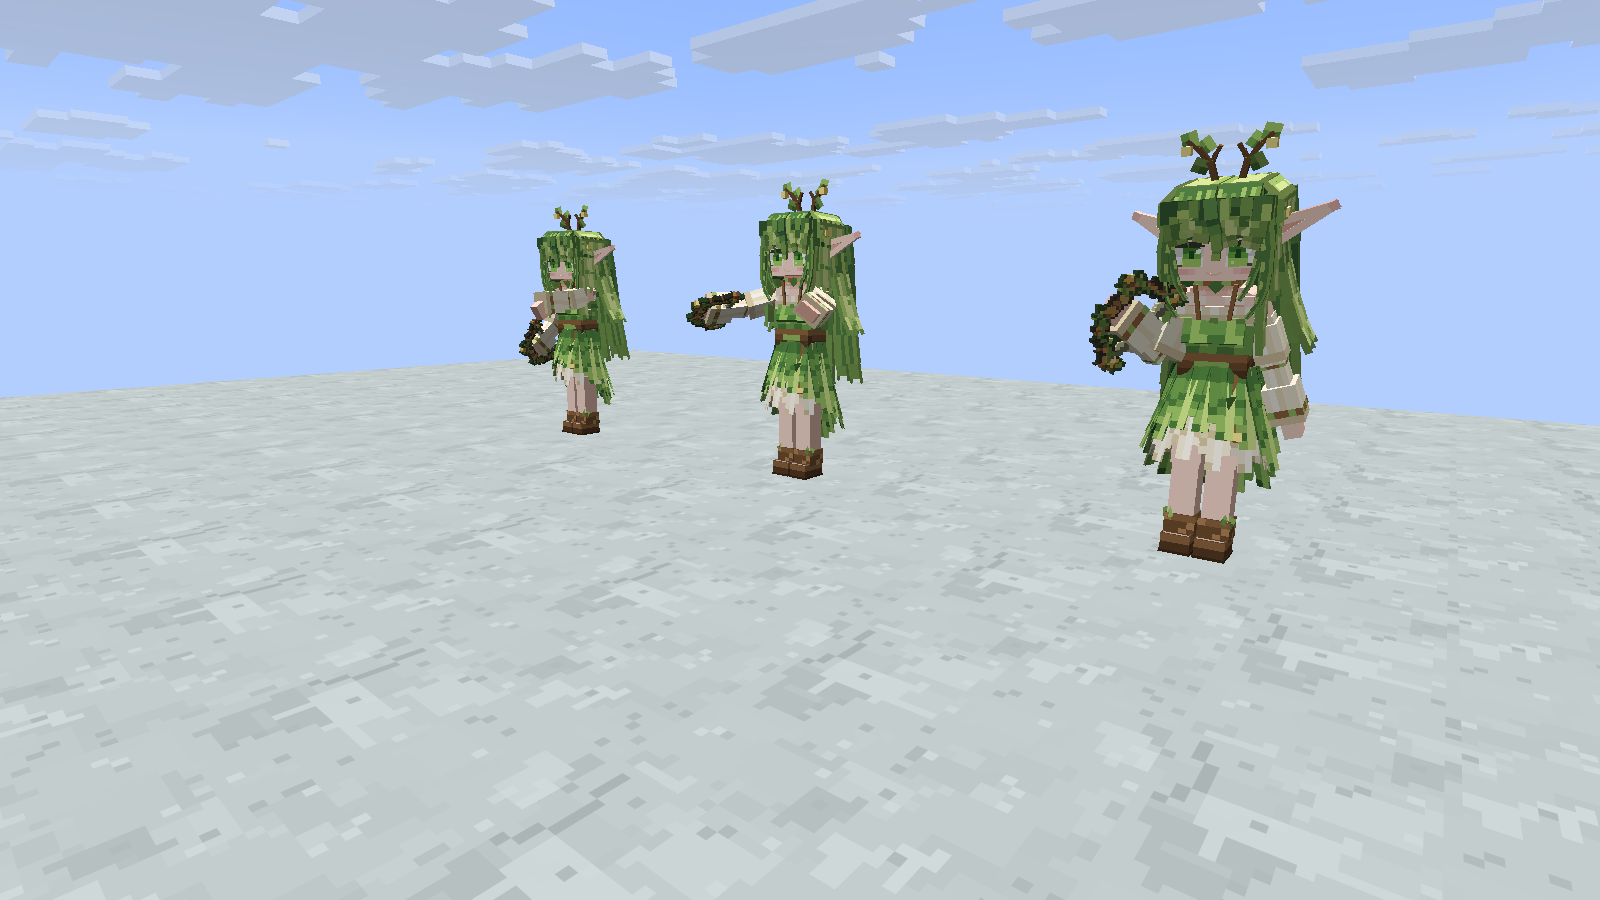
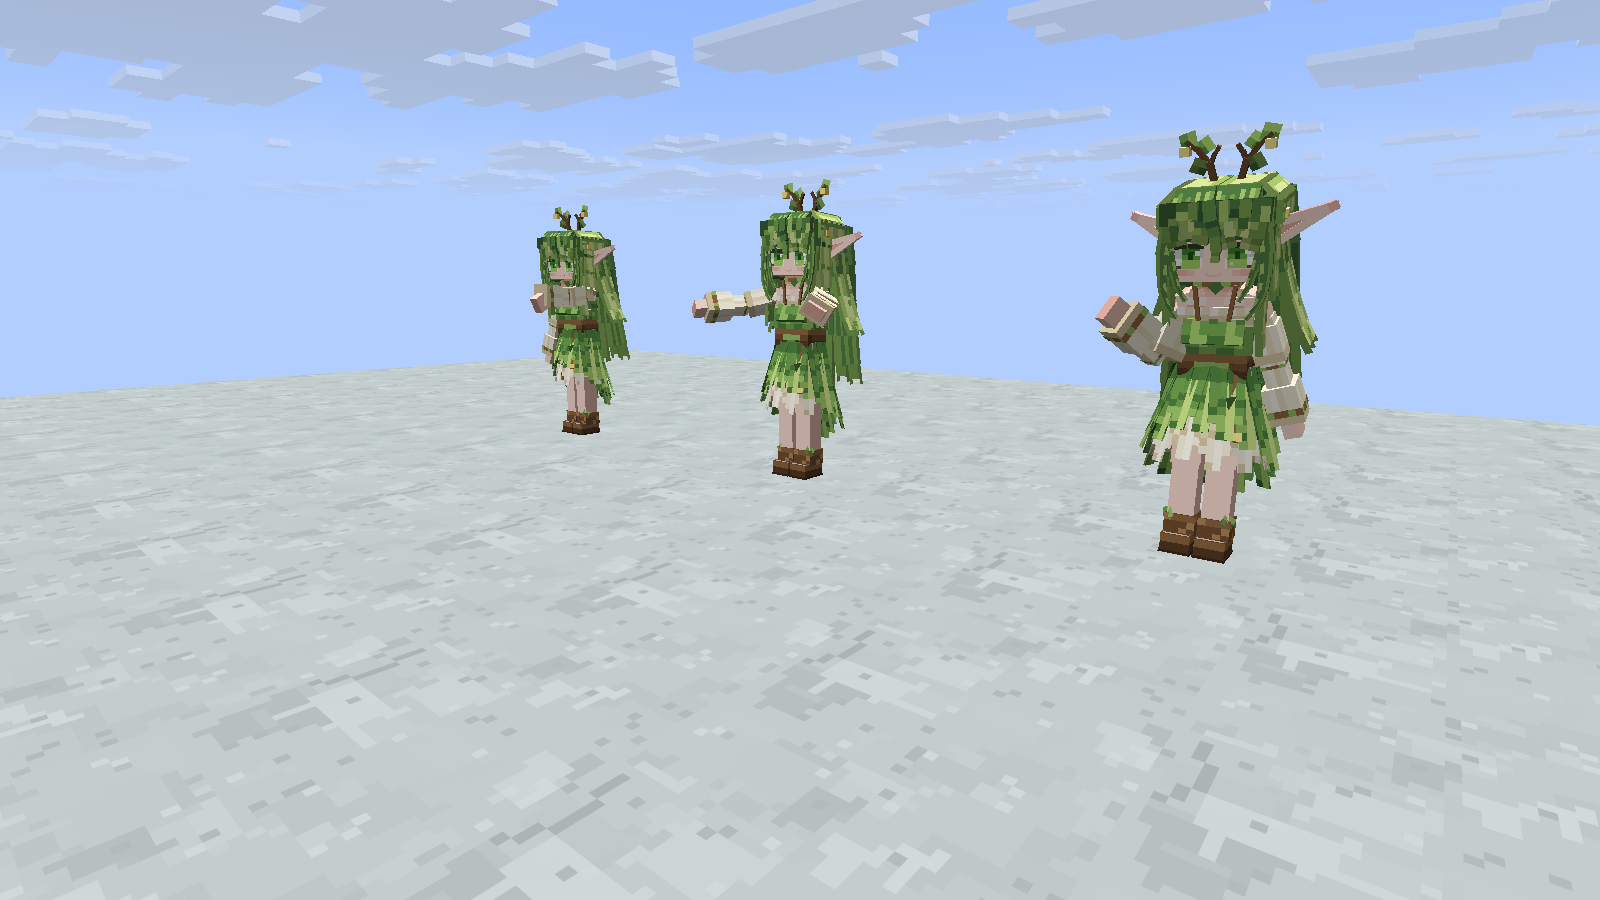
Keep forest elves' bows stowed outside combat
森林精灵平时不拿武器：弓收着（存档 Weapon），有目标时拿出来；目标没了或受伤后警戒 5 秒，期间不收，正在拉弓时也不收。旧存档里一直拿着弓的精灵会在不警戒时收起来。

- ElfBowAttackGoal 按收着或拿着的弓判断能不能战斗；弓刚拿出来的那一刻不拉，下一刻再拉。
- 新增 GameTest forest_elf_weapon_only_in_combat：平时空手 → 看到僵尸拿出弓并拉弓 → 警戒期内仍拿着 → 警戒结束收起。
- 动作预览场景改为在加入世界前把弓放到手上；施法截图更新为空手。

验证：单元 86/86；GameTest forest_elf* 8/8（连续两次）；实际客户端 group:npc_preview 6/6 场景、18/18 检查。

diff --git a/src/main/java/dev/logos/dimension/npc/ForestElf.java b/src/main/java/dev/logos/dimension/npc/ForestElf.java
@@ -49,7 +49,8 @@ import net.minecraft.world.level.storage.ValueOutput;
  *
  * <ul>
  * <li>外观：生成时按零件表随机抽一次，存解析后的零件 ID（docs/NPC_APPEARANCE.md 第 6 节）。</li>
- * <li>战斗：拿「自然之力」远射（{@link ElfBowAttackGoal}），主动攻击附近的亡灵与灾厄村民；
+ * <li>战斗：拿「自然之力」远射（{@link ElfBowAttackGoal}），主动攻击附近的亡灵与灾厄村民。
+ *     弓平时收着，只在战斗和战斗后的警戒期里拿在手上（{@link #weapon}）；
  *     僵尸和灾厄村民也把精灵当村民打（{@link ElfFactions}）。</li>
  * <li>治疗：200 点魔力、每秒恢复 5 点，用 Logos 示例法术治疗受伤的同伴（{@link ElfHealGoal}）。
  *     作为玩家的使魔时把玩家视为友方。</li>
@@ -79,6 +80,12 @@ public class ForestElf extends PathfinderMob implements NpcAnimated, NpcPartsHol
     private UUID master;
     /** 服务端：剧情动作还剩几刻。 */
     private int actionTicks;
+    /** 战斗或受伤之后保持警戒（弓不收起）的刻数。 */
+    public static final int ALERT_TICKS = 100;
+    /** 收起来的武器；拿在手上时这里为空。存档 {@code Weapon}。 */
+    private ItemStack weapon = ItemStack.EMPTY;
+    /** 服务端：警戒还剩几刻。 */
+    private int alertTicks;
 
     public ForestElf(EntityType<? extends ForestElf> type, Level level) {
         super(type, level);
@@ -130,7 +137,8 @@ public class ForestElf extends PathfinderMob implements NpcAnimated, NpcPartsHol
     @Override
     public SpawnGroupData finalizeSpawn(ServerLevelAccessor level, DifficultyInstance difficulty, EntitySpawnReason reason, SpawnGroupData data) {
         setAppearance(NpcParts.FOREST_ELF.random(level.getRandom()));
-        setItemSlot(EquipmentSlot.MAINHAND, new ItemStack(NaturesForceItem.ITEM.get()));
+        // 弓收着，战斗时才拿出来（见 updateWeapon）
+        weapon = new ItemStack(NaturesForceItem.ITEM.get());
         setDropChance(EquipmentSlot.MAINHAND, 0);
         if (reason == EntitySpawnReason.STRUCTURE) {
             setPersistenceRequired();
@@ -193,6 +201,42 @@ public class ForestElf extends PathfinderMob implements NpcAnimated, NpcPartsHol
         if (level().isClientSide()) return;
         if (mana < MAX_MANA) mana = Math.min(MAX_MANA, mana + MANA_PER_SECOND / 20f);
         if (actionTicks > 0 && --actionTicks == 0) entityData.set(ACTION, "");
+        updateWeapon();
+    }
+
+    // ---------------------------------------------------------------- 武器：平时收起，战斗与警戒时拿出
+
+    /** 收着的或拿在手上的武器（没有为空）。 */
+    public ItemStack weapon() {
+        return weapon.isEmpty() && getMainHandItem().getItem() instanceof NaturesForceItem ? getMainHandItem() : weapon;
+    }
+
+    /** 换一把武器（收着）；传空即没有武器。 */
+    public void setWeapon(ItemStack stack) {
+        if (getMainHandItem().getItem() instanceof NaturesForceItem) setItemSlot(EquipmentSlot.MAINHAND, ItemStack.EMPTY);
+        weapon = stack.copy();
+    }
+
+    /** 在战斗中，或者战斗、受伤之后的警戒期内。 */
+    public boolean isAlert() {
+        return getTarget() != null || alertTicks > 0;
+    }
+
+    /** 服务端每刻：警戒时把弓拿出来，警戒结束（且没在拉弓）时收起来。 */
+    private void updateWeapon() {
+        if (getTarget() != null || hurtTime > 0) alertTicks = ALERT_TICKS;
+        else if (alertTicks > 0) alertTicks--;
+        ItemStack hand = getMainHandItem();
+        if (isAlert()) {
+            if (hand.isEmpty() && !weapon.isEmpty()) {
+                setItemSlot(EquipmentSlot.MAINHAND, weapon);
+                weapon = ItemStack.EMPTY;
+            }
+        } else if (hand.getItem() instanceof NaturesForceItem && !isUsingItem() && weapon.isEmpty()) {
+            // 旧存档里一直拿在手上的弓也在这里收起来
+            weapon = hand;
+            setItemSlot(EquipmentSlot.MAINHAND, ItemStack.EMPTY);
+        }
     }
 
     // ---------------------------------------------------------------- 剧情动作与瞄准（动画）
@@ -228,6 +272,7 @@ public class ForestElf extends PathfinderMob implements NpcAnimated, NpcPartsHol
         super.addAdditionalSaveData(output);
         output.store("Appearance", APPEARANCE_CODEC, npcAppearance());
         output.putFloat("Mana", mana);
+        if (!weapon.isEmpty()) output.store("Weapon", ItemStack.CODEC, weapon);
     }
 
     @Override
@@ -235,6 +280,7 @@ public class ForestElf extends PathfinderMob implements NpcAnimated, NpcPartsHol
         super.readAdditionalSaveData(input);
         input.read("Appearance", APPEARANCE_CODEC).ifPresent(this::setAppearance);
         mana = Math.clamp(input.getFloatOr("Mana", MAX_MANA), 0, MAX_MANA);
+        weapon = input.read("Weapon", ItemStack.CODEC).orElse(ItemStack.EMPTY);
     }
 
     // ---------------------------------------------------------------- 声音与交互（对标村民）

diff --git a/src/main/java/dev/logos/dimension/gametest/ForestElfGameTests.java b/src/main/java/dev/logos/dimension/gametest/ForestElfGameTests.java
@@ -55,7 +55,8 @@ public final class ForestElfGameTests {
                 "forest_elf_heal_one", ForestElfGameTests::healOne,
                 "forest_elf_heal_group", ForestElfGameTests::healGroup,
                 "forest_elf_familiar_heals_player", ForestElfGameTests::familiarHealsPlayer,
-                "forest_elf_zombie_enmity", ForestElfGameTests::zombieEnmity);
+                "forest_elf_zombie_enmity", ForestElfGameTests::zombieEnmity,
+                "forest_elf_weapon_only_in_combat", ForestElfGameTests::weaponOnlyInCombat);
         tests.forEach((name, test) -> FUNCTIONS.register(name, () -> test));
         FUNCTIONS.register(bus);
         bus.addListener((RegisterGameTestsEvent event) -> {
@@ -117,7 +118,8 @@ public final class ForestElfGameTests {
             Map<String, String> a = elf.npcAppearance();
             h.assertTrue(a.equals(NpcParts.FOREST_ELF.sanitize(a)), "外观不合法：" + a);
             h.assertFalse("hair_hooded".equals(a.get("hair")) && "headwear_twig_crown".equals(a.get("headwear")), "兜帽和枝冠同时出现");
-            h.assertTrue(elf.getMainHandItem().getItem() instanceof NaturesForceItem, "没拿自然之力");
+            h.assertTrue(elf.weapon().getItem() instanceof NaturesForceItem, "没有自然之力");
+            h.assertTrue(elf.getMainHandItem().isEmpty(), "平时不该把弓拿在手上");
             h.assertTrue(elf.isPersistenceRequired(), "结构里的精灵不常驻");
             h.assertTrue(elf.hasHome(), "结构里的精灵没有住处范围");
         }
@@ -214,7 +216,7 @@ public final class ForestElfGameTests {
         zombie.snapTo(h.absoluteVec(new Vec3(9.5, 1, 9.5)));
         zombie.setItemSlot(net.minecraft.world.entity.EquipmentSlot.HEAD, new net.minecraft.world.item.ItemStack(net.minecraft.world.item.Items.LEATHER_HELMET));
         // 测的是双方选目标：精灵不拿弓（强化箭会把僵尸击飞出测试场地），双方给足生命（无敌的生物不会被当成敌人）
-        elf.setItemSlot(net.minecraft.world.entity.EquipmentSlot.MAINHAND, net.minecraft.world.item.ItemStack.EMPTY);
+        elf.setWeapon(net.minecraft.world.item.ItemStack.EMPTY);
         for (var mob : List.of(zombie, elf)) {
             mob.getAttribute(Attributes.MAX_HEALTH).setBaseValue(1000);
             mob.setHealth(1000);
@@ -230,6 +232,38 @@ public final class ForestElfGameTests {
         h.succeedWhen(() -> {
             h.assertTrue(seen[0], "僵尸没把精灵当目标：" + zombie.getTarget());
             h.assertTrue(seen[1], "精灵没把僵尸当目标：" + elf.getTarget());
+        });
+    }
+
+    /** 平时弓收着；有敌人时拿出来并拉弓；敌人没了、警戒期过后再收起来。 */
+    private static void weaponOnlyInCombat(GameTestHelper h) {
+        floor(h, 12);
+        ForestElf elf = elf(h, 2, 1, 2, EntitySpawnReason.COMMAND);
+        h.assertTrue(elf.getMainHandItem().isEmpty(), "平时不该把弓拿在手上");
+        Zombie zombie = EntityType.ZOMBIE.create(h.getLevel(), EntitySpawnReason.COMMAND);
+        zombie.snapTo(h.absoluteVec(new Vec3(9.5, 1, 9.5)));
+        zombie.setItemSlot(net.minecraft.world.entity.EquipmentSlot.HEAD, new net.minecraft.world.item.ItemStack(net.minecraft.world.item.Items.LEATHER_HELMET));
+        zombie.setNoAi(true);
+        h.getLevel().addFreshEntity(zombie);
+        int[] phase = {0};
+        int[] calm = {0};
+        h.onEachTick(() -> {
+            // 拿出来的弓真的能拉（换装备不会打断拉弓）
+            if (phase[0] == 0 && elf.getTarget() == zombie && elf.isUsingItem() && elf.getUseItem().getItem() instanceof NaturesForceItem) {
+                phase[0] = 1;
+                zombie.discard();
+            } else if (phase[0] == 1 && elf.getTarget() == null) {
+                phase[0] = 2;
+            } else if (phase[0] == 2) {
+                calm[0]++;
+                // 警戒期内弓还拿着
+                if (calm[0] == ForestElf.ALERT_TICKS / 2 && elf.getMainHandItem().isEmpty())
+                    throw h.assertionException(net.minecraft.network.chat.Component.literal("警戒期还没过就收起了弓"));
+            }
+        });
+        h.succeedWhen(() -> {
+            h.assertTrue(phase[0] == 2 && calm[0] > ForestElf.ALERT_TICKS, "还没走完：战斗 → 警戒 → 平静（" + phase[0] + "）");
+            h.assertTrue(elf.getMainHandItem().isEmpty() && elf.weapon().getItem() instanceof NaturesForceItem, "警戒过后没把弓收起来");
         });
     }
 

diff --git a/src/main/java/dev/logos/dimension/client/NpcActionViews.java b/src/main/java/dev/logos/dimension/client/NpcActionViews.java
@@ -9,6 +9,7 @@ import com.lowdragmc.lowdraglib2.uitest.*;
 
 import dev.logos.dimension.DimensionTravel;
 import dev.logos.dimension.cloudsea.CloudseaBlocks;
+import dev.logos.dimension.item.NaturesForceItem;
 import dev.logos.dimension.npc.ForestElf;
 import dev.logos.dimension.npc.NpcAnimations;
 import dev.logos.dimension.npc.NpcEntities;
@@ -17,6 +18,8 @@ import net.minecraft.core.BlockPos;
 import net.minecraft.server.level.ServerLevel;
 import net.minecraft.world.InteractionHand;
 import net.minecraft.world.entity.EntitySpawnReason;
+import net.minecraft.world.entity.EquipmentSlot;
+import net.minecraft.world.item.ItemStack;
 import net.minecraft.world.level.GameType;
 import net.minecraft.world.phys.AABB;
 import net.minecraft.world.phys.Vec3;
@@ -25,7 +28,7 @@ import net.minecraft.world.phys.Vec3;
  * 实际客户端预览森林精灵的动作，白瓷台上并排三个精灵，关掉 AI 站定：
  * <ul>
  * <li>弓（3/4 与正侧面两张）：从左到右是持弓、平射拉弓、抬头 30° 拉弓（3/4 那张再向左偏 25°），弓应跟着视线；</li>
- * <li>施法：抚生之触、生息之环、行礼。剧情动作错开触发，让截图那一刻都在动作的停顿处。</li>
+ * <li>施法：抚生之触、生息之环、行礼（不在战斗中，弓收着）。剧情动作错开触发，让截图那一刻都在动作的停顿处。</li>
  * </ul>
  */
 public abstract class NpcActionViews implements UIScenario {
@@ -97,6 +100,9 @@ public abstract class NpcActionViews implements UIScenario {
                         elf.setYBodyRot(body);
                         elf.setNoAi(true);
                         elf.setPersistenceRequired();
+                        // 平时弓收着；预览里在加入世界前直接放到手上（加入后再换装备会打断拉弓）。
+                        // 收着的那把还在，所以不会被收回去
+                        if (bow()) elf.setItemSlot(EquipmentSlot.MAINHAND, new ItemStack(NaturesForceItem.ITEM.get()));
                         level.addFreshEntity(elf);
                         if (bow() && i > 0) elf.startUsingItem(InteractionHand.MAIN_HAND);
                     }

diff --git a/src/main/java/dev/logos/dimension/npc/ElfBowAttackGoal.java b/src/main/java/dev/logos/dimension/npc/ElfBowAttackGoal.java
@@ -32,8 +32,9 @@ public final class ElfBowAttackGoal extends Goal {
         setFlags(EnumSet.of(Flag.MOVE, Flag.LOOK));
     }
 
+    /** 手上或收着的自然之力（收着的由精灵在有目标时拿出来，见 {@link ForestElf#weapon()}）。 */
     private boolean holdsBow() {
-        return elf.getMainHandItem().getItem() instanceof NaturesForceItem || elf.getOffhandItem().getItem() instanceof NaturesForceItem;
+        return elf.weapon().getItem() instanceof NaturesForceItem || elf.getOffhandItem().getItem() instanceof NaturesForceItem;
     }
 
     @Override
@@ -96,7 +97,8 @@ public final class ElfBowAttackGoal extends Goal {
                 }
                 reload = RELOAD;
             }
-        } else if (see && reload <= 0 && dist <= MAX_RANGE) {
+        } else if (see && reload <= 0 && dist <= MAX_RANGE && elf.getItemInHand(hand).getItem() instanceof NaturesForceItem) {
+            // 刚进入战斗的那一刻弓可能还收着，精灵下一刻拿出来再拉
             elf.startUsingItem(hand);
         }
     }

diff --git a/VERIFICATION.md b/VERIFICATION.md
@@ -2,7 +2,18 @@
 
 目标环境：Minecraft 26.1.2、NeoForge 26.1.2.112、Java 25；Logos 0.5.1，主模组源码基线 `f196960`。当前开发安装包为 0.11.0。原炼金维度不包含建筑或 Boss；远行大陆包含中世纪聚落、精灵森林与世界树，不包含 Boss。
 
-## 森林精灵动画：移动、拉弓瞄准与施法动作
+## 森林精灵平时收起武器
+
+2026-10-27：分支 `feat/forest-elf-holster`（建在 `feat/forest-elf-animations` 之上）。精灵的弓平时收着（存档 `Weapon`），有目标时拿出来；目标没了或受伤后警戒 100 刻（5 秒），期间不收，正在拉弓时也不收。旧存档里一直拿着弓的精灵，在第一次不警戒时收起来。
+
+| 层级 | 结果 |
+| --- | --- |
+| 单元 | **86/86** 通过（没有新增） |
+| 世界（GameTest `logos_dimension:forest_elf*`） | **8/8** 通过，连续两次；新增 `forest_elf_weapon_only_in_combat`：平时空手 → 看到僵尸拿出弓并真正开始拉弓 → 僵尸消失后警戒期内仍拿着 → 警戒结束收起；结构生成的精灵空手、弓收着 |
+| 实际客户端（`group:npc_preview`） | **6/6 场景、18/18 检查**通过；施法截图 `forest-elf-spells.png` 更新为空手（不在战斗中） |
+
+没有验证的部分：实际游戏中进出战斗的观感（没有在战斗中截图）、多人。
+
 
 2026-10-27：分支 `feat/forest-elf-animations`，清单见 [NPC 动画清单](docs/NPC_ANIMATION_LIST.md)。
 

diff --git a/docs/NPC_RACE_FOREST_ELF.md b/docs/NPC_RACE_FOREST_ELF.md
@@ -133,6 +133,7 @@
   - 精灵主动攻击附近的亡灵与灾厄村民（含劫掠队成员）；
   - 原版僵尸、灾厄村民等劫掠者以对待村民的方式攻击精灵（同样的优先级与是否需要看见）；
   - 被攻击时会叫附近的精灵一起还手；玩家的 Logos 使魔不在敌我名单里。
+- **平时不拿武器**：弓收着，手上是空的；有了目标才拿出来，目标没了或受伤之后再警戒 5 秒，期间弓不收起。正在拉弓时也不会收。
 - 掉落：弓不掉落。
 
 ### 8.4 治疗与魔力
